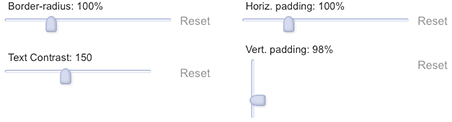
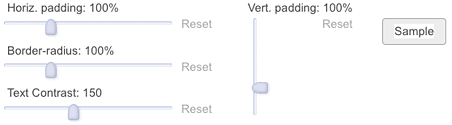
updating docs screen cap images to match new UI, and spellchecking

diff --git a/docs.html b/docs.html
@@ -114,8 +114,8 @@ h1,h2,h3,h4,h5,h6 {
         Toward the top of YUI Skin Builder is an area with 5 tabs
         <ul id="list-control-tabs">
             <li>
-                <img src="assets/images/cap_style.png" width="561" height="117" alt="Controls for changing colors, padding, radius, etc."/>
-                <strong>Style:</strong> This displays buttos for changing the key colors of the skin. You can change the border-radius, padding, and text contrast styles in the skin.
+                <img src="assets/images/cap_style.png" width="561" height="115" alt="Controls for changing colors, padding, radius, etc."/>
+                <strong>Style:</strong> This displays buttons for changing the key colors of the skin. You can change the border-radius, padding, and text contrast styles in the skin.
             </li>
             <li>
                 <img src="assets/images/cap_scheme.png" width="561" height="124" alt="Color scheme radio button choices"/>
@@ -127,7 +127,7 @@ h1,h2,h3,h4,h5,h6 {
             </li>
             <li>
                 <img src="assets/images/cap_code.png" width="561" height="133" alt="CSS generated code"/>
-                <strong>Code:</strong> This tab contains text area controls which display the real-time generated CSS code for your skin as you make modifications. You can also change the skin name, which marks all the selectors in the CSS code.
+                <strong>Code:</strong> This tab contains text area controls that display the real-time generated CSS code for your skin as you make modifications. You can also change the skin name, which marks all the selectors in the CSS code.
             </li>
         </ul>
         <h3 class="clear-floats">Skin Preview</h3>
@@ -142,14 +142,14 @@ h1,h2,h3,h4,h5,h6 {
 
             <li><img src="assets/images/cap_page_color_button.png" width="434" height="198" alt="Edit Page Color... button and color picker"/>Click the Edit Page Color... button (if your page background color isn't white). From the Color Picker that pops up, select a color that matches the background color the widgets will display on. This is commonly the page background, but may be a container object that widgets will appear in. You can also enter the color directly with a hex value if you know it.</li>
 
-            <li><img src="assets/images/cap_sliders.png" width="452" height="122" alt="sliders for text padding, border-radius, and contrast"/>Make any changes needed to the padding and border-radius styles. You can adjust the contrast of the text to its background. This adjustment can help maintain readability.</li>
+            <li><img src="assets/images/cap_sliders.png" width="452" height="125" alt="sliders for text padding, border-radius, and contrast"/>Make any changes needed to the padding and border-radius styles. You can adjust the contrast between the text and its background. This adjustment can help maintain readability.</li>
                  
             <li><img src="assets/images/cap_scheme.png" width="561" height="124" alt="Color scheme radio button choices"/>Click the Schemes tab. Try other schemes to see which works best for your site. If you choose a dark background scheme, you may need to select a different "highest/master" color from the palettes tab</li>
             
             
             <li><img src="assets/images/cap_code.png" width="561" height="123" alt="CSS generated code"/>Edit the Skin Name suffix. In the markup of your site or app where widgets are to use this skin, replace the class "yui3-skin-sam" with the matching new class name, such as, "yui3-skin-myskinnamesuffix".</li>
             
-            <li>Select the contents of the textarea labeled "CSS for all widgets". Paste this code into the file where ever you want your CSS to be referenced from. If you don't need CSS skin code for all the YUI 3 widgets, you can pick out and use only the sections of the CSS you do need.</li>
+            <li>Select the contents of the textarea labeled "CSS for all widgets". Paste this code into the file wherever you want your CSS to be referenced from. If you don't need CSS skin code for all the YUI 3 widgets, you can pick out and use only the sections of the CSS you do need.</li>
         </ol>
 
 
@@ -173,7 +173,7 @@ h1,h2,h3,h4,h5,h6 {
 
         <h2>How Does It Work?</h2>
         <h3>Key color</h3>
-        This is a user-selected color. Its the color that has the most emphasis in the skin. It will be used as the background color of visually dominant widget elements such as, primary or default buttons, or selected tabs. In the Palette, it is presented as the background color of the "highest"
+        This is a user-selected color. It's the color that has the most emphasis in the skin. It will be used as the background color of visually dominant widget elements such as, primary or default buttons, or selected tabs. In the Palette, it is presented as the background color of the "highest"
 
         <h3>Main colors</h3>
         There are 6 Main Colors used in this tool. From left to right, their names are...
@@ -281,7 +281,7 @@ h1,h2,h3,h4,h5,h6 {
         };
         </pre>
         <h3>Color Mapping</h3>
-        Each YUI Widget has a color map file which defines variable names and set their value equal to a color, padding, or radius value in the skin palette. 
+        Each YUI Widget has a color map file, which defines variable names and set their value equal to a color, padding, or radius value in the skin palette. 
         <pre>
 YUI.add('skin-tabview', function (Y) {
 
@@ -331,7 +331,7 @@ Y.Skin.renderers.tabview = function (skin) {
         When the CSS templates are processed, the variables are replaced.
         <pre>
 .yui3-skin-mine .yui3-tab-label {
-    /* ommitting a lot of gradient CSS here for this example */
+    /* omitting a lot of gradient CSS here for this example */
     background-color: #b0bcdd;
     border-style: solid;
     border-color: #d1d8eb #a6b3d9 #a6b3d9 #d1d8eb;
